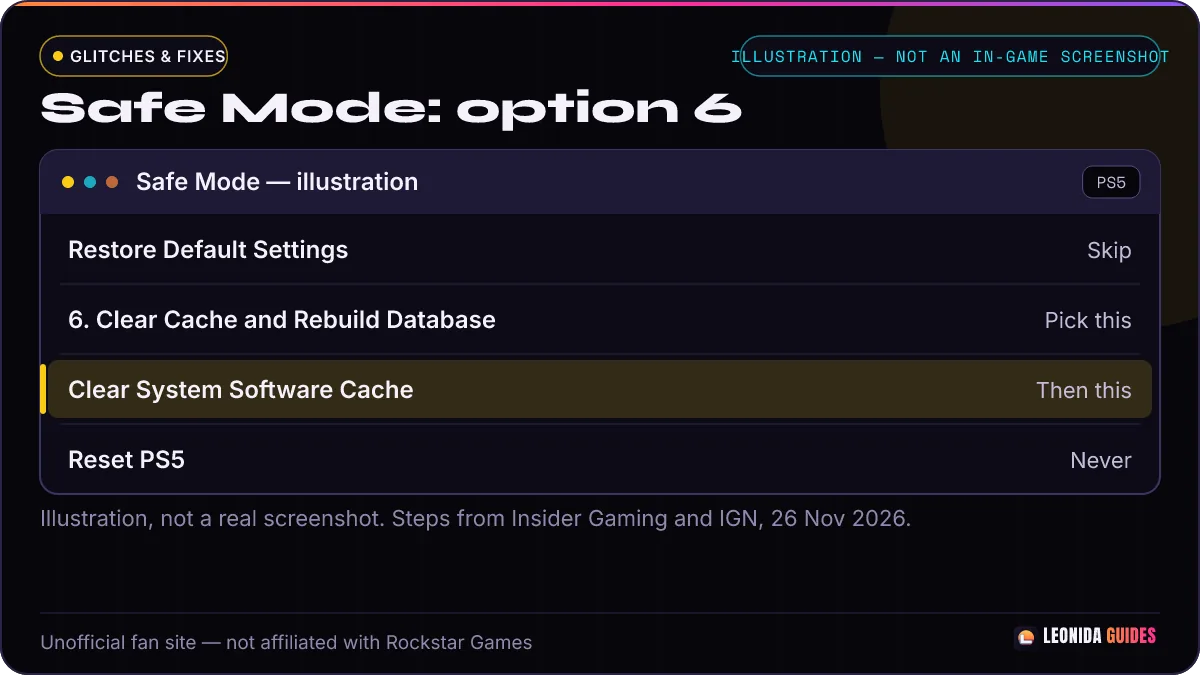
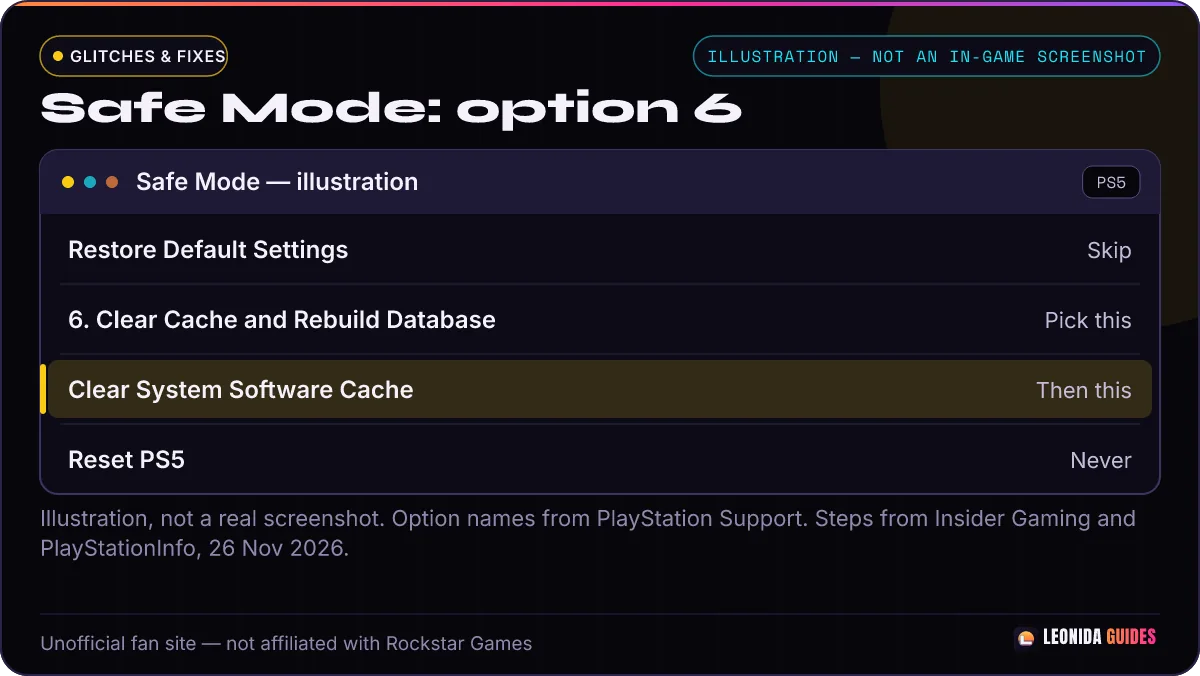
content: auto-publish 2026-11-26T21:34:40.586Z

diff --git a/content/gta-6-weather-not-changing.md b/content/gta-6-weather-not-changing.md
@@ -29,7 +29,7 @@ draft: true
 # GTA 6 Weather Not Changing? PS5 Cache Fix and Patch Status
 
 > - **Quick answer:** If the GTA 6 weather never changes on **PS5**, players say **clearing the system software cache in Safe Mode** brings rain and storms back (IGN, Insider Gaming).
-> - **Affects:** PS5 and PS5 Pro reports after update **01.002.002** (PlayStationInfo, Polygon, VGC). Rockstar's patch notes list a weather fix. The cache trick is **not** an official fix.
+> - **Affects:** some **PS5** players after update **01.002.002** (IGN, Insider Gaming, PlayStationInfo; version: PlayStationInfo, Polygon, VGC). One player on X ([@NiffoLeon](https://x.com/NiffoLeon/status/2125911934360867252)) says PS5 Pro too. Rockstar's patch notes list a weather fix. The cache trick is **not** an official fix.
 > - **Status: unconfirmed workaround**, checked 2026-11-26. Many players report it works; IGN says it could be a placebo. Not tested by us.
 
 **Words used on this page.** A *glitch* is a mistake in the game. A *patch* is an update that fixes mistakes. *Safe Mode* is a special start-up menu on the PS5 for fixing problems. *Cache* is a store of temporary files the console can throw away and make again.
@@ -41,7 +41,7 @@ draft: true
 - The sky stays clear and sunny for many in-game days.
 - You almost never see rain, fog or a storm, even after many hours.
 
-![Our diagram with three text boxes: Always sunny, No rain or fog, and After the patch some PS5 players still see it on 01.002.002 (PlayStationInfo, Polygon, VGC). Not a game screenshot.](TODO: image:gta-6-weather-not-changing-step-1 — diagram, our own art: three boxes for always sunny, no rain or fog, and still stuck after the patch)
+![Our diagram with three text boxes: Always sunny, No rain or fog, and After the patch some PS5 players still see it (IGN, Insider Gaming, PlayStationInfo). Not a game screenshot.](TODO: image:gta-6-weather-not-changing-step-1 — diagram, our own art: three boxes for always sunny, no rain or fog, and still stuck after the patch)
 *Caption: Diagram. The bug: the same sunny weather, day after day.*
 
 ## First check: is it really a bug?
@@ -54,9 +54,9 @@ draft: true
 
 | Platform | Affected? | Version / patch | Source |
 |---|---|---|---|
-| PS5 | Yes, some players after the patch | 01.002.002 (PlayStationInfo, Polygon, VGC) | IGN, Insider Gaming |
+| PS5 | Yes, some players after the patch | 01.002.002 (PlayStationInfo, Polygon, VGC) | IGN, Insider Gaming, PlayStationInfo |
 | PS5 Pro | Yes, one player report | 01.002.002 (PlayStationInfo, Polygon, VGC) | [@NiffoLeon on X](https://x.com/NiffoLeon/status/2125911934360867252) |
-| Xbox Series X\|S | Mixed reports | 01.002.002 (PlayStationInfo, Polygon, VGC) | Insider Gaming says the cache clear appears to work; PlayStationInfo says it is not yet clear |
+| Xbox Series X\|S | Possible; outlets disagree on the fix | 01.002.002 (PlayStationInfo, Polygon, VGC) | Insider Gaming says the cache clear appears to work; PlayStationInfo says it is not yet clear |
 
 ## Fixes, fastest first
 
@@ -64,17 +64,17 @@ draft: true
 
 This trick was shared by [GameRoll on X](https://x.com/GameRoll_/status/2125764422371029015) on 26 Nov. GameRoll says it takes about two minutes. [Insider Gaming](https://insider-gaming.com/fix-weather-bug-gta-6-rain-storms/) credits GameRoll and the X user mauricioce85796, who first raised it.
 
-1. In GTA 6, **save your game**. Then close the game.
+1. In GTA 6, **save your game**. Then close the game (PlayStationInfo).
 2. **Turn the PS5 completely off** (Insider Gaming, PlayStationInfo).
-3. **Press and hold the power button.** Let go after the **second beep**, about 7 seconds (Insider Gaming).
-4. **Plug in your controller with a USB cable.** Press the **PS button**.
-5. Pick **Clear Cache and Rebuild Database** (option 6).
+3. **Press and hold the power button.** Let go after the **second beep**, about 7 seconds (Insider Gaming, [PlayStation Support](https://www.playstation.com/en-us/support/hardware/safe-mode-playstation/)).
+4. **Plug in your controller with a USB cable.** Press the **PS button** (Insider Gaming, PlayStation Support).
+5. Pick **Clear Cache and Rebuild Database** (option 6) (PlayStation Support).
 6. Pick **Clear System Software Cache**. Confirm it (PlayStationInfo).
-7. Wait for the PS5 to restart. Start GTA 6 and load your save.
+7. Wait for the PS5 to restart. Start GTA 6 and load your save (PlayStationInfo).
 
-**Do not pick any reset option** lower in the Safe Mode menu. Those can wipe the console. The option names come from [PlayStation Support](https://www.playstation.com/en-us/support/hardware/safe-mode-playstation/). Clearing the cache does not delete your saves or games (IGN, [PlayStationInfo](https://www.playstationinfo.de/en/2026/11/26/gta-6-only-shows-sunshine-for-many-players-and-a-simple-ps5-trick-could-fix-the-problem/)).
+**Do not pick any reset option** lower in the Safe Mode menu. Those can wipe the console (PlayStation Support, PlayStationInfo). The option names come from [PlayStation Support](https://www.playstation.com/en-us/support/hardware/safe-mode-playstation/). Clearing the cache does not delete your saves or games (IGN, [PlayStationInfo](https://www.playstationinfo.de/en/2026/11/26/gta-6-only-shows-sunshine-for-many-players-and-a-simple-ps5-trick-could-fix-the-problem/)).
 
-The weather may not change at once. Play for a while and drive to a new area (Insider Gaming).
+The weather may not change at once. You may need to spend some time exploring (Insider Gaming).
 
 ![Our drawing of the PS5 Safe Mode menu with option 6 highlighted. Not a real screenshot.](TODO: image:gta-6-weather-not-changing-step-2 — menu screen, our own illustration: PS5 Safe Mode list with "6 Clear Cache and Rebuild Database" highlighted, then "Clear System Software Cache")
 *Caption: Menu screen. Safe Mode option 6, then Clear System Software Cache.*
@@ -90,16 +90,13 @@ The weather may not change at once. Play for a while and drive to a new area (In
 
 Rockstar Support says this does not change your save data, but it will reset your brightness and language settings.
 
-The weather may not change at once. Play for a while and drive to a new area (Insider Gaming).
+The weather may not change at once. The weather still needs time to cycle (Insider Gaming).
 
 [PlayStationInfo](https://www.playstationinfo.de/en/2026/11/26/gta-6-only-shows-sunshine-for-many-players-and-a-simple-ps5-trick-could-fix-the-problem/) says the result on Xbox is not yet clear.
 
 ### Fix 3: Fully close the game and start it again
 
-1. Save your game.
-2. Fully close the game, then start it again. Load your save.
-
-[PlayStationInfo](https://www.playstationinfo.de/en/2026/11/26/gta-6-only-shows-sunshine-for-many-players-and-a-simple-ps5-trick-could-fix-the-problem/) suggests this, and says the Xbox result is not yet clear.
+Fully close the game, then start it again ([PlayStationInfo](https://www.playstationinfo.de/en/2026/11/26/gta-6-only-shows-sunshine-for-many-players-and-a-simple-ps5-trick-could-fix-the-problem/)). PlayStationInfo also says the Xbox result is not yet clear.
 
 ![Our flow chart: update, check chapter, clear the PS5 cache, and if you are still stuck, report it to Rockstar Support. Not a game screenshot.](TODO: image:gta-6-weather-not-changing-step-3 — diagram, our own flow chart: Update > Check chapter > Clear PS5 cache > Still stuck: Report it to Rockstar Support)
 *Caption: Diagram. Try the steps in this order.*
@@ -109,9 +106,9 @@ The weather may not change at once. Play for a while and drive to a new area (In
 | Item | Detail |
 |---|---|
 | Latest patch | 01.002.002, 23 Nov 2026 (version: [PlayStationInfo](https://www.playstationinfo.de/en/2026/11/26/gta-6-only-shows-sunshine-for-many-players-and-a-simple-ps5-trick-could-fix-the-problem/), [Polygon](https://www.polygon.com/gta-6-update-today-ver-01002002-where-is-ps5-xbox-download-size-patch-notes/), [VGC](https://www.videogameschronicle.com/news/grand-theft-auto-6-has-received-a-new-patch-which-fixes-autosaving/); date and notes: [Rockstar Support](https://support.rockstargames.com/articles/sN5pEdFYZdlvijKXd6xpJ/grand-theft-auto-vi-launch-updates-ps5-xbox-series-x-or-s)) |
-| Does it fix this? | Patch notes say yes. Some PS5 players still report it. |
+| Does it fix this? | Patch notes say yes. Some PS5 players still report it (IGN, Insider Gaming, PlayStationInfo). |
 | Patch notes | [Rockstar Support, Launch Updates](https://support.rockstargames.com/articles/sN5pEdFYZdlvijKXd6xpJ/grand-theft-auto-vi-launch-updates-ps5-xbox-series-x-or-s) |
-| Cache trick | Community workaround. Rockstar has not commented. |
+| Cache trick | Community workaround. Official confirmation from Rockstar is still pending (PlayStationInfo). |
 | Last checked | 2026-11-26 |
 
 **Status: unconfirmed workaround** (checked 2026-11-26). IGN and Insider Gaming report many players saying it worked. IGN adds it could be a placebo. Not every player sees a change: one player on X says the fog came and went at once ([@leerobi08433142](https://x.com/leerobi08433142/status/2125914968063144147)).
@@ -133,7 +130,7 @@ The weather may not change at once. Play for a while and drive to a new area (In
 No. IGN and PlayStationInfo say clearing the system software cache does not delete saves or games. Do not pick the reset options lower in the Safe Mode menu.
 
 ### Did Rockstar fix the GTA 6 weather bug?
-Rockstar's 23 Nov patch notes list a fix for weather not changing for extended periods. Some PS5 players still report the problem after it.
+Rockstar's 23 Nov patch notes list a fix for weather not changing for extended periods. Some PS5 players still report the problem after it (IGN, Insider Gaming, PlayStationInfo).
 
 ### Why is it always sunny in Chapter 1?
 Rockstar told IGN the first chapter has mostly good weather and storms grow later. Rain is local, so you can miss it.
@@ -152,8 +149,9 @@ Related: [GTA 6 PS5 fixes](/glitches/gta-6-ps5-fixes/) · [GTA 6 Xbox fixes](/gl
 | Date | What changed |
 |---|---|
 | 2026-11-26 | Page created from Rockstar's patch notes, IGN, Insider Gaming and GameRoll's post. Not tested by us. |
-| 2026-11-26, 20:31 CET | SEARCH re-check: added the Xbox cache steps from Insider Gaming, and noted that PlayStationInfo says the Xbox result is not yet clear. Credited IGN and PlayStationInfo (not PlayStation Support) for the save warning. Fixed the step-1 and step-3 images. |
-| 2026-11-26, 21:27 CET | SEARCH re-check: dropped unsourced Fix 2 and Fix 3 times; Fix 1's two minutes and the title_alt now credit GameRoll. Version 01.002.002 is credited to PlayStationInfo, Polygon and VGC, not IGN or Insider Gaming. Fix 3 now says fully close the game and start it again (PlayStationInfo), not restart the console. Replaced the unsourced Rest Mode warning with sourced "completely off" wording. |
+| 2026-11-26, 20:31 CET | Added Xbox cache steps from Insider Gaming, and noted that PlayStationInfo says the Xbox result is not yet clear. The save warning now credits IGN and PlayStationInfo. |
+| 2026-11-26, 21:27 CET | Removed guessed times. Credited GameRoll for the two-minute claim, and PlayStationInfo, Polygon and VGC for the version number. The close-and-restart steps now say to start the game again, not the console. |
+| 2026-11-26, 22:30 CET | Split the credits for who is still affected and for the version number. Marked the PS5 Pro report as one player on X. |
 
 ---
 *Unofficial fan site, not affiliated with Rockstar Games or Take-Two.*

diff --git a/content/gta-6-how-to-make-money-fast.md b/content/gta-6-how-to-make-money-fast.md
@@ -12,6 +12,8 @@ sources:
   - https://www.destructoid.com/the-best-and-fastest-ways-to-make-money-in-gta-6/
   - "GamesRadar+ | https://www.gamesradar.com/games/grand-theft-auto/gta-6-sell-cars-bikes-how-to/"
   - "GamesRadar+ fence guide | https://www.gamesradar.com/games/grand-theft-auto/gta-6-fences/"
+  - "GamesRadar+ ATMs | https://www.gamesradar.com/games/grand-theft-auto/gta-6-atm/"
+  - "Rockstar Support, BuckMe account limit | https://support.rockstargames.com/articles/5hSbxodEFeNbU1wARy1p4X/cannot-put-any-more-money-in-my-buckme-account-in-grand-theft-auto-vi"
   - "PowerPyx | https://www.powerpyx.com/gta-6-money-guide-how-to-get-money-fast/"
   - "u/chill2308 on r/GTAVI | https://www.reddit.com/r/GTAVI/comments/1y63mhj/money_tip_chapter_3/"
   - "r/GTAVI car selling thread | https://www.reddit.com/r/GTAVI/comments/1y5liiu/selling_cars_is_such_a_good_way_to_make_money/"
@@ -24,9 +26,9 @@ qa: live-review
 
 # GTA 6 How to Make Money Fast: 4 Best Ways (2026)
 
-> - **Quick answer:** GTA 6 how to make money fast: **raid gang hideouts (yellow map icons) and sell the loot**, and steal cars for paid jobs that often pay **over $10,000** (GameSpot).
-> - **Needs:** most big money opens as the story goes on. Banks open later (GameSpot, Destructoid).
-> - **Warning:** you can carry only **$20,000 in cash**. Put it in the bank, or you can lose it if you are arrested or die (Destructoid).
+> - **Quick answer:** GTA 6 how to make money fast: **raid gang hideouts (yellow map icons) and sell the loot**, and steal cars for paid jobs. Sources disagree on the car pay: GameSpot says those jobs often pay **over $10,000**; PowerPyx says the first buyer's cars usually pay about **$1,000 or more**; GamesRadar says harder-to-get cars can pay high four- or five-digit sums.
+> - **Needs:** most big money opens as the story goes on. Banks open later (Destructoid). GameSpot says about halfway through the story; PowerPyx says the big bank vault robberies open at the end of Chapter 4.
+> - **Warning:** you can carry only **$20,000 in cash** (Destructoid, GamesRadar). Put it in your **BuckMe** account, or you can lose it if you are arrested or die (Destructoid). BuckMe has a limit too; it goes up as you play the story (Destructoid, GamesRadar, Rockstar Support).
 
 **Words used on this page.** *Hideout* is a place where a gang keeps money and goods. *Loot* means things you take. A *fence* is a shop person who buys stolen things. *Focus mode* is a view that shows useful items around you. *Payout* is the money you get.
 
@@ -37,27 +39,27 @@ qa: live-review
 | # | Method | What you get | When it opens | Source |
 |---|---|---|---|---|
 | 1 | Raid gang hideouts | Cash, goods to sell, sometimes rare guns and cars | Early, as you find them | GameSpot, Destructoid |
-| 2 | Steal cars for paid jobs | Often **more than $10,000** per car | Early, better cars later | GameSpot |
+| 2 | Steal cars for paid jobs | Sources disagree: GameSpot says often **over $10,000**; PowerPyx says about **$1,000 or more** early | Early, better cars later | GameSpot, PowerPyx, GamesRadar |
 | 3 | Treasure dives | "Tens of thousands of dollars" in total | Fairly early in the story | GameSpot |
-| 4 | Rob big stores and banks | Big stores now, banks much more | Banks about halfway through the story | GameSpot, Destructoid |
+| 4 | Rob big stores and banks | Big stores now, banks much more | Banks later (Destructoid). GameSpot: about halfway. PowerPyx: end of Chapter 4 | GameSpot, Destructoid, PowerPyx |
 
 ![Table of the 4 money methods](TODO: image:gta-6-how-to-make-money-fast-step-1 — diagram, our own art: a table of the 4 methods with what they pay and when they open, no story names)
-*Caption: Diagram. The 4 methods and when each one opens.*
+*Caption: Diagram. The 4 methods and when each one opens. Car pay and when banks open can differ by source.*
 
 ## First: do not lose your cash
 
-1. Watch your cash. You can carry up to **$20,000** (Destructoid).
-2. Go to a bank machine (ATM) when you get close to that.
-3. Put the money into your **BuckMe** account. BuckMe is the game's bank app.
+1. Watch your cash. You can carry up to **$20,000** (Destructoid, GamesRadar).
+2. Go to an **ATM** when you get close to that (GamesRadar).
+3. Put the money into your **BuckMe** account (Destructoid). BuckMe is the game's bank app.
 
-Destructoid says cash you carry is lost if you are "wasted" (you die) or arrested. Money in BuckMe is safe.
+Destructoid says cash you carry is lost if you are "wasted" (you die) or arrested. Money in BuckMe is safe. BuckMe has a limit too; it goes up as you play the story (Destructoid, GamesRadar, [Rockstar Support](https://support.rockstargames.com/articles/5hSbxodEFeNbU1wARy1p4X/cannot-put-any-more-money-in-my-buckme-account-in-grand-theft-auto-vi)).
 
 ## Method 1: Raid gang hideouts
 
 1. Open the map. Look for **yellow icons**. These are robbery spots (GameSpot, Destructoid).
 2. Pick one. GameSpot says the label shows the gang, the security level and the possible score.
 3. Go there and beat the guards. GameSpot says most have about **one or two dozen** enemies.
-4. Turn on **Focus mode** to find loot. Click **both sticks** at once: **L3 + R3 on PS5**, both sticks on Xbox (Destructoid).
+4. Turn on **Focus mode** to find loot. Click **both analog sticks** at once (Destructoid).
 5. Grab the cash and goods.
 6. Take the goods to a **fence** to sell them. GameSpot says you get paid almost at once.
 
@@ -71,7 +73,7 @@ GameSpot says some hideouts have rare guns and vehicles. You can sell those too.
 1. Meet the car buyers. They come in through the story (GameSpot, Destructoid).
 2. Take a job from the list of cars they want.
 3. Find the car and steal it.
-4. Drive it to the buyer. GameSpot says the reward is often **over $10,000**.
+4. Drive it to the buyer. GameSpot says the reward is often **over $10,000**. The sources disagree: PowerPyx says the first buyer's cars usually pay about **$1,000 or more**, and that bigger payouts (often **$30,000 or more**) come from the later, high-end buyer. GamesRadar says harder-to-get cars can pay high four- or five-digit sums.
 5. Keep the car in good shape. GameSpot says a later buyer pays more for clean cars.
 
 Two limits: Destructoid says you can only steal a set number of cars a day. GameSpot says a **Pay 'N' Spray** also buys cars, but not cars with a high-end tracker.
@@ -116,10 +118,10 @@ GameSpot says a man called **Kenton** runs a scuba-boat shop in **Key Lento**. Y
 4. Ask for the safe code if there is a safe (GameSpot).
 5. Leave fast. Destructoid says police come the longer you stay.
 
-Banks open later. GameSpot says big **Fleeca** banks become possible about **halfway through the story**, together with a tool that stops dye packs (ink bombs that ruin stolen notes).
+Banks open later (Destructoid). GameSpot says big **Fleeca** banks become possible about **halfway through the story**, together with a tool that stops dye packs (ink bombs that ruin stolen notes). PowerPyx disagrees: it says the big bank vault robberies only open at the end of Chapter 4.
 
 ![Menu screen showing cash and BuckMe balance](TODO: image:gta-6-how-to-make-money-fast-step-3 — menu screen, our own illustration of a cash total next to a BuckMe bank balance with a $20,000 cash limit note)
-*Caption: Menu screen. Keep your cash under $20,000 and bank the rest.*
+*Caption: Menu screen. Keep your cash under $20,000 and bank the rest. BuckMe has a limit too.*
 
 :::spoiler Short on money early in the story? (reveals a story section)
 GameSpot says that at about the 30% mark you must pay rent at a motel as Lucia, with no money. Its tip: rob the small stores marked with green icons in Port Gellhorn, rob people on the street, and sell cars.
@@ -130,13 +132,13 @@ GameSpot says that at about the 30% mark you must pay rent at a motel as Lucia, 
 ## FAQ
 
 ### What is the fastest way to make money in GTA 6?
-GameSpot says raiding gang hideouts again and again is the way to never worry about money. Car jobs often pay over $10,000 each.
+GameSpot says raiding gang hideouts again and again is the way to never worry about money. It also says car jobs often pay over $10,000 each. The sources disagree: PowerPyx says the first buyer's cars usually pay about $1,000 or more, with bigger payouts from the later, high-end buyer. GamesRadar says harder-to-get cars can pay high four- or five-digit sums.
 
 ### Is there a cash limit in GTA 6?
-Yes. Destructoid says you can carry $20,000 in cash. Put the rest in your BuckMe account.
+Yes. Destructoid and GamesRadar say you can carry $20,000 in cash. Put the rest in your BuckMe account (Destructoid). BuckMe has a limit too; it goes up as you play the story (Destructoid, GamesRadar, Rockstar Support).
 
 ### Can I rob banks in GTA 6?
-Yes, but later. GameSpot says big banks open about halfway through the story.
+Yes, but later (Destructoid). GameSpot says big banks open about halfway through the story. PowerPyx says the big bank vault robberies only open at the end of Chapter 4. The sources disagree.
 
 ### Is there a money glitch in GTA 6?
 This page covers normal methods only. A story-mode warehouse respawn glitch is reported working as of 25 Nov 2026; it has its own page: [GTA 6 money glitch](/money/gta-6-money-glitch/).
@@ -148,8 +150,9 @@ This page covers normal methods only. A story-mode warehouse respawn glitch is r
 | 2026-11-18 | Filled from GameSpot's and Destructoid's money guides (18 Nov). Not timed by us yet. |
 | 2026-11-25 | FAQ now links to our separate money glitch page. |
 | 2026-11-26 | Added Pay 'N' Spray car selling steps from PowerPyx, with player payouts and tips marked unconfirmed. |
-| 2026-11-26 | QA fix: added GamesRadar citations, noted where GameSpot disagrees, credited Destructoid and GamesRadar for the daily limit, moved the high-end buyer tips, and sourced the sell step. |
-| 2026-11-26 | QA fix: took car-buyer names out of visible text, and credited the Chapter 3 Pay 'N' Spray unlock to PowerPyx only. |
+| 2026-11-26 | Added GamesRadar citations, noted where GameSpot disagrees, credited Destructoid and GamesRadar for the daily limit, moved the high-end buyer tips, and sourced the sell step. |
+| 2026-11-26 | Took car-buyer names out of visible text, and credited the Chapter 3 Pay 'N' Spray unlock to PowerPyx only. |
+| 2026-11-26 | Noted where sources disagree on car-job pay and when banks open, sourced the ATM step, and added the BuckMe balance limit. |
 
 ---
 *Unofficial fan site, not affiliated with Rockstar Games or Take-Two.*
